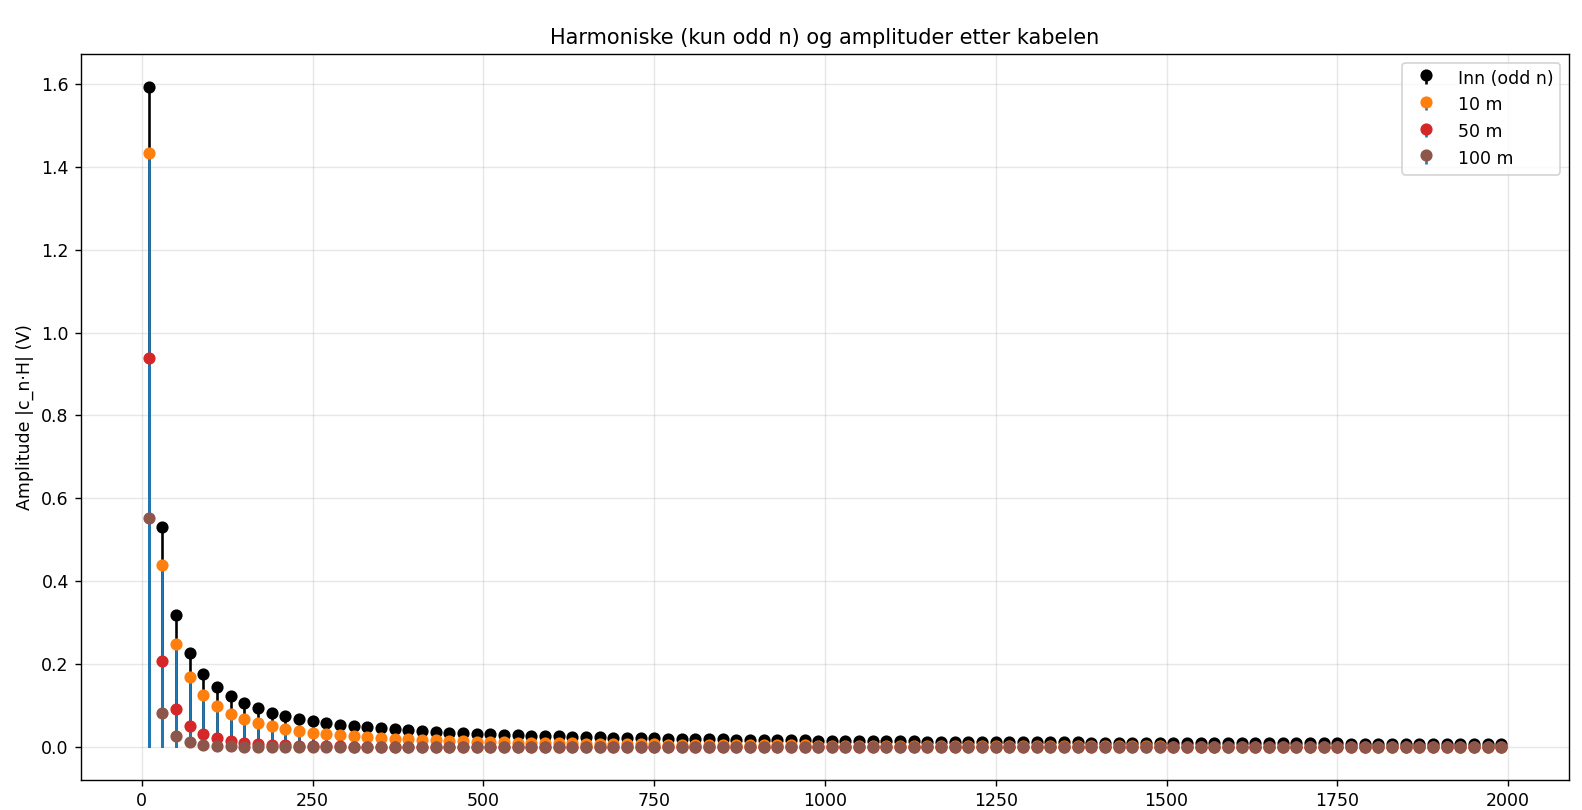
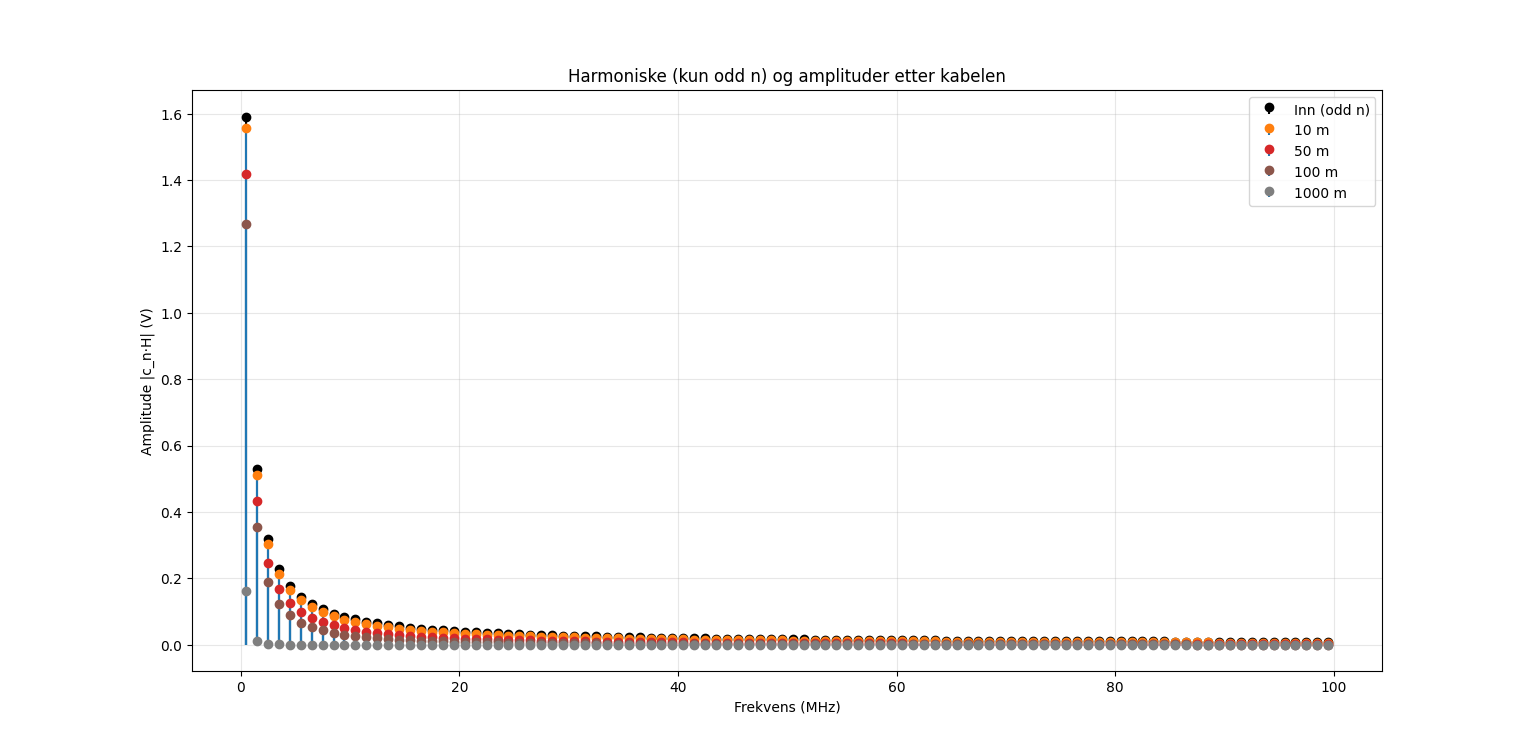
adda et par modeller

diff --git a/Lab1/sections/modellering.tex b/Lab1/sections/modellering.tex
@@ -10,7 +10,7 @@ Vi tar utgangspunkt i en firkantpuls med periode $T$:
 \]
 Vi bestemmer først Fourier-rekken til firkantpulsen for å finne frekvenskomponentene:
 \[
-    V_{in}(t) = \sum_{n=1,3,5,...}^{\infty} c_n e^{j n \omega_0 t}, \quad hvor \quad \omega_0 = \frac{2\pi}{T}
+    V_{in}(t) = c_0 + \sum_{\substack{n=-\infty\\ n\ \text{oddetall}}}^{\infty} c_n e^{j n \omega_0 t}, \quad hvor \quad \omega_0 = \frac{2\pi}{T}
 \]
 Merk at siden vi vet at duty cycle er 50\%, vil bare oddetalls harmoniske være tilstede i Fourier-rekken.
 Koefisientene $c_n$ kan beregnes som:
@@ -22,9 +22,9 @@ Koefisientene $c_n$ kan beregnes som:
 \]
 Vi for dermed at:
 \[
-    V_{inn}(t) = \frac{5}{2} + \sum_{n=1,3,5,...}^{\infty} \frac{5}{j n \pi} e^{j n \omega_0 t}
+    V_{in}(t) = \frac{5}{2} + \sum_{\substack{n=-\infty\\ n\ \text{oddetall}}}^{\infty} \frac{5}{j n \pi} e^{j n \omega_0 t}
 \]
-For å modellere dempingen i mediet, antar vi en en tilnærment lik realistiske verider for R, G, L og C.
+For å modellere dempingen i mediet, antar vi en en tilnærment lik realistiske tilnærminger for R, G, L og C.
 Vi antar at mediet er en Cat5e kabel med følgende parametere:
 Fra formel \eqref{eq:skin-effekt} for vi at R er gitt ved:
 \[
@@ -58,24 +58,51 @@ Fra formlen \eqref{eq:dielectric_loss} for dielektriske tap, får vi at:
 \[
     H(f, l) = e^{-\gamma(f) l}, \quad hvor \quad \gamma(f) = \sqrt{(R(f) + j 2\pi f L)(G(f) + j 2\pi f C)}
 \]
-Her er $l$ lengden på mediet (kabelen) og $\gamma(f)$ er den komplekse bølgeimpedansen som avhenger av frekvensen.
+Her er $l$ lengden på mediet (kabelen) og $\gamma(f)$ er propagasjonskonstanten som avhenger av frekvensen.
 Vi kan nå finne ut hvordan hver frekvenskomponent i firkantpulsen blir dempet ved å multiplisere hver komponent med $H(f, l)$:
 \[
-    V_{out}(t) = \sum_{n=1,3,5,...}^{\infty} c_n H(n f_0, l) e^{j n \omega_0 t}
+    V_{out}(t) = c_0H(0, l) + \sum_{\substack{n=-\infty\\ n\ \text{oddetall}}}^{\infty} c_n H(n f_0, l) e^{j n \omega_0 t}
+\]
+Som i hvor situasjon gir:
+\[
+    V_{out}(t) = \frac{5}{2}H(0, l) + \sum_{\substack{n=-\infty\\ n\ \text{oddetall}}}^{\infty} \frac{5}{j n \pi} H(n f_0, l) e^{j n \omega_0 t}    
 \]
 For å simulere dette numerisk, kan vi bruke Python til å beregne $H(f, l)$ for en rekke frekvenser og deretter rekonstruere tidsdomenesignalet ved hjelp av den inverse Fourier-transformasjonen.
 Vi kan da plotte både inngangssignalet og utgangssignalet for å visualisere effekten av dempingen i mediet.
-\subsection{Modell 1}
-Dempinig av signalet over en lengde på 10, 50 og 100 meter er vist i figur \ref{fig:modell1}. Vi ser at høyfrekvente komponenter blir betydelig dempet, noe som resulterer i en mer avrundet firkantpuls ved utgangen. Dette illustrerer hvordan mediet fungerer som et lavpassfilter, hvor de høyere frekvensene reduseres mer enn de lavere frekvensene.
+\clearpage
+\subsection{Modeller}
+For å forstå hvordan forskjellige aspekter av mediets egenskaper påvirker signalet, har vi laget flere modeller der vi varierer hvilke deler av den propagasjonskonstanten $\gamma(f)$ vi tar hensyn til. Modellene er basert på 10m, 50m, 100m og 1000m. Vi har følgende modeller:
+\begin{itemize}
+    \item \textbf{Kun demping:} I disse modellene tar vi kun hensyn til dempingen i mediet, og ignorerer faseendringen. Dette viser hvordan signalets amplitude påvirkes uten å endre dets form (modell 1 og 2).
+    \[
+        \gamma(f) = \alpha(f)
+    \]
+    \item \textbf{Kun faseendring:} I denne modellen tar vi kun hensyn til faseendringen i mediet, og ignorerer dempingen. Dette viser hvordan signalet ville oppføre seg i et ideelt tapsfritt medium (modell 3).
+    \[
+        \gamma(f) = j\beta(f)
+    \]
+    \item \textbf{Ideell, tapsfri og ikke-dispersiv modell:} Her antar vi at mediet er ideelt, uten demping og uten dispersjon. Dette betyr at alle frekvenskomponenter har samme fasehastighet (modell 4).
+    \[
+        \gamma(f) = j\beta(f), \quad hvor \quad \beta(f) = \omega\sqrt{LC}
+    \]
+    \item \textbf{Full modell:} Her tar vi hensyn til både demping (Re($\gamma$)) og faseendring (Im($\gamma$)) i mediet. Dette gir en tilnærmet representasjon av hvordan signalet påvirkes (modell 5).
+    \[
+        \gamma(f) = \alpha(f) + j\beta(f)
+    \]
+    \item \textbf{Waterfall plott:} For å visualisere hvordan forskjellige frekvenskomponenter påvirker tidsdomenesignalet, har vi laget to "waterfall" plot som viser hvordan signalet endres når vi inkluderer flere og flere frekvenskomponenter opp til en viss grensefrekvens (modell 6).
+\end{itemize}
+\clearpage
+\subsection{Modell 1 (kunn demping i frekvensdomenet)}
+Demping av signalet er vist i figur \ref{fig:modell1}. Vi ser at høyfrekvente komponenter blir betydelig dempet, noe som resulterer i en mer avrundet firkantpuls ved utgangen. Dette illustrerer hvordan mediet fungerer som et lavpassfilter, hvor de høyere frekvensene reduseres mer enn de lavere frekvensene.
 \begin{figure}[h]
     \centering
     \includegraphics[width=1\textwidth]{Media/modellering1.png}
-    \caption{Frekvensdomeneanalyse av firkantpuls etter å ha passert gjennom et dempende medium over forskjellige lengder (10m, 50m, 100m).}
+    \caption{Frekvensdomeneanalyse av firkantpuls etter å ha passert gjennom et dempende medium over forskjellige lengder.}
     \label{fig:modell1}
 \end{figure}
 \clearpage
-\subsection{Modell 2}
-I den andre modellen ser vi på hvordan tidsdomenesignalet endres etter å ha passert gjennom mediet. Vi rekonstruerer tidsdomenesignalet ved hjelp av den inverse Fourier-transformasjonen av de dempede frekvenskomponentene. Her har vi kunn tatt hensyn til amplitudendringen og ikke faseendringen (\textbf{det samme gjelder for modell 3}). alstå ser vi på:
+\subsection{Modell 2 (demping i frekvensdomenet i tidsdomenet)}
+I den andre modellen ser vi på hvordan tidsdomenesignalet endres etter å ha passert gjennom mediet. Vi rekonstruerer tidsdomenesignalet ved å summerer Fourier-rekkene for de dempede harmoniske. Her har vi kunn tatt hensyn til amplitudendringen og ikke faseendringen. alstå ser vi på:
 \[
     H(f, l) = e^{-\alpha(f) l}, \quad hvor \quad \alpha(f) = Re(\gamma(f))
 \]
@@ -83,11 +110,51 @@ Resultatet er vist i figur \ref{fig:modell2}. Vi ser at firkantpulsen blir mer a
 \begin{figure}[h]
     \centering
     \includegraphics[width=1\textwidth]{Media/modellering2.png}
-    \caption{Tidsdomenesignalet av firkantpuls etter å ha passert gjennom et dempende medium over forskjellige lengder (10m, 50m, 100m).}
+    \caption{Tidsdomenesignalet av firkantpuls etter å ha passert gjennom et dempende medium over forskjellige lengder.}
     \label{fig:modell2}
 \end{figure}
 \clearpage
-\subsection{Modell 3}
+\subsection{Modell 3 (kunn faseendring)}
+I den tredje modellen ser vi på hvordan tidsdomenesignalet endres når vi kun tar hensyn til faseendringen i mediet, og ignorerer dempingen. Altså ser vi på:
+\[
+    H(f, l) = e^{-j\beta(f) l}, \quad hvor \quad \beta(f) = Im(\gamma(f))
+\]
+Resultatet er vist i figur \ref{fig:modell3}. Vi ser at firkantpulsen blir mer vrengete etter å ha passert gjennom mediet, men beholder sin generelle form. Dette illustrerer hvordan faseendringen påvirker signalets tidsdomenesignal uten å endre dets amplitude. Alle frekvenskomponenter opplever forskjellige faseforsinkelser, noe som fører til en forvrengning av signalets form.
+\begin{figure}[h]
+    \centering
+    \includegraphics[width=1\textwidth]{Media/modellering3.png}
+    \caption{Tidsdomenesignalet av firkantpuls etter å ha passert gjennom et medium med kun faseendring.}
+    \label{fig:modell3}
+\end{figure}
+\clearpage
+\subsection{Modell 4 (Ideell, ikke-dispersiv modell)}
+I den fjerde modellen ser vi på hvordan tidsdomenesignalet endres når vi antar at mediet er ideelt, uten demping og uten dispersjon. Altså ser vi på:
+\[
+    H(f, l) = e^{-j\beta(f) l}, \quad hvor \quad \beta(f) = \omega\sqrt{LC}
+\]
+Resultatet er vist i figur \ref{fig:modell4}. Vi ser at firkant
+pulsen opprettholder sin form og blir forsinket i tid, akkurat som i modell 3. Dette bekrefter at i et ideelt ikke-dispersivt medium, har alle frekvenskomponenter samme fasehastighet, noe som betyr at signalets form bevares uten noen forvrengning.
+\begin{figure}[h]
+    \centering
+    \includegraphics[width=1\textwidth]{Media/modellering4.png}
+    \caption{Tidsdomenesignalet av firkantpuls etter å ha passert gjennom et ideelt ikke-dispersivt medium over forskjellige lengder.}
+    \label{fig:modell4}
+\end{figure}
+\clearpage
+\subsection{Modell 5 (full modell)}
+I den femte modellen ser vi på hvordan tidsdomenesignalet endres når vi tar hensyn til både demping og faseendring i mediet. Altså ser vi på:
+\[
+    H(f, l) = e^{-\gamma(f) l}, \quad hvor \quad \gamma(f) = \alpha(f) + j\beta(f)
+\]
+Resultatet er vist i figur \ref{fig:modell5}. Vi ser at firkantpulsen blir både dempet og forsinket i tid etter å ha passert gjennom mediet. Dette gir en mer realistisk representasjon av hvordan signalet påvirkes i et ekte medium, hvor både demping og faseendring spiller en rolle. Over lengre avstander blir signalet betydelig mer avrundet og dempet, noe som illustrerer viktigheten av å ta hensyn til begge aspekter for å forstå signalets oppførsel.
+\begin{figure}[h]
+    \centering
+    \includegraphics[width=1\textwidth]{Media/modellering5.png}
+    \caption{Tidsdomenesignalet av firkantpuls etter å ha passert gjennom et realistisk medium over forskjellige lengder.}
+    \label{fig:modell5}
+\end{figure}
+\clearpage
+\subsection{Modell 6 (waterfall plot)}
 For å få en bedre forståelse av hvordan forskjellige frekvenskomponenter påvirker tidsdomenesignalet, har vi laget to "waterfall" plot som viser hvordan signalet endres når vi inkluderer flere og flere frekvenskomponenter opp til en viss grensefrekvens (Visualisere bidraget fra hver komponent). Den enen kalles lavpassfilter (LP) og den andre høypassfilter (HP). Prinsippet er det samme for begge plottene, men de summerer forskjellige sett av frekvenskomponenter:
 \begin{itemize}
     \item \textbf{Lavpassfilter (LP):} Her summerer vi alle frekvenskomponenter fra fundamentalfrekvensen $f_0$ opp til en økende grensefrekvens $f_{cut}$. Dette viser hvordan tidsdomenesignalet utvikler seg når vi inkluderer flere lavfrekvente komponenter.
@@ -100,11 +167,13 @@ For å få en bedre forståelse av hvordan forskjellige frekvenskomponenter påv
     \]
     \item \textbf{Antall kutt:} For å få en jevnere overgang i waterfall plottene, har vi økt antall kutt (cuts) til 15. Dette gir en mer detaljert visualisering av hvordan signalet endres med forskjellige grensefrekvenser.
 \end{itemize}
-Dette er vist i figur \ref{fig:modell3}.
+Dette er vist i figur \ref{fig:modell6}.
 \begin{figure}[h]
     \centering
-    \includegraphics[width=1\textwidth]{Media/modellering3.png}
+    \includegraphics[width=1\textwidth]{Media/modellering6.png}
     \caption{Waterfall plot som viser hvordan tidsdomenesignalet endres når flere frekvenskomponenter inkluderes opp/ned til forskjellige grensefrekvenser (plottet er for 50m kabel).}
-    \label{fig:modell3}
+    \label{fig:modell6}
 \end{figure}\\
 Vi ser at når vi inkluderer flere frekvenskomponenter, blir tidsdomenesignalet mer detaljert og nærmere den opprinnelige firkantpulsen. Dette illustrerer viktigheten av høyfrekvente komponenter for å bevare signalets form. For lavpassfilteret ser vi at signalet gradvis nærmer seg firkantpulsen når flere lavfrekvente komponenter inkluderes. For høypassfilteret ser vi at signalet blir mer avrundet når flere høyfrekvente komponenter inkluderes, noe som bekrefter at høyfrekvente komponenter er avgjørende for å opprettholde skarpe overganger i tidsdomenesignalet.
+\clearpage
+

diff --git a/simTest.py b/simTest.py
@@ -24,6 +24,7 @@ Nf = 4000
 # Tidsprøver for rekonstruksjon
 Nt = 5000
 t_cycles = 1.0      # tegn en periode
+mode = "kunn_fase"  # "full", "kunn_fase", "kunn_forsinkelse", "kunn_tap"
 
 
 
@@ -54,14 +55,31 @@ def gamma_f(f):
     f = np.asarray(f, dtype=float)
     R = R_f(f)
     G = G_f(f)
-    return np.real(np.sqrt((R + j*2*pi*f*L) * (G + j*2*pi*f*C)))
+    gamma = np.sqrt((R + j*2*pi*f*L) * (G + j*2*pi*f*C))
+    return gamma
 
-def H_f(f, length):
-    """Overføringsfunksjon H(f, l) = exp(-gamma*l) med H(0)=1."""
+def H_f(f, length, mode="full"):
     f = np.asarray(f, dtype=float)
-    H = np.exp(-gamma_f(f) * length)
+    if mode == "full":
+        gamma = gamma_f(f)                      # α + jβ (med tap)
+        gamma_eff = gamma
+    elif mode == "kunn_fase":                  # bruk bare β fra faktisk gamma
+        beta = np.imag(gamma_f(f))              # β(f)
+        gamma_eff = 1j*beta
+    elif mode == "kunn_forsinkelse":              # ideell, tapsfri og ikke-dispersiv
+        omega = 2*np.pi*f
+        beta0 = omega*np.sqrt(L*C)              # β0 = ω√(LC)
+        gamma_eff = 1j*beta0
+    elif mode == "kunn_tap":                  # bruk bare α fra faktisk gamma
+        alpha = np.real(gamma_f(f))             # α(f)
+        gamma_eff = alpha
+    else:
+        raise ValueError("Ukjent mode")
+
+    H = np.exp(-gamma_eff*length)
     H[f == 0.0] = 1.0
     return H
+
 
 def fourierRekkeCoeffs(T, duty, N):
     """ 
@@ -104,7 +122,7 @@ amps_in = np.abs(c)
 Hn_by_len = {}
 for Lm in lengths_m:
     # behold full lengde (brukes senere i tidsdomenet), men evaluer på |f|
-    Hn_by_len[Lm] = H_f(np.abs(harm_freqs), Lm)
+    Hn_by_len[Lm] = H_f(harm_freqs, Lm, mode=mode)
 
 fig1, ax1 = plt.subplots(figsize=(9,5))
 ax1.stem(freqs_odd_MHz, amps_in[odd_pos_idx],
@@ -124,21 +142,84 @@ ax1.grid(True, alpha=0.3)
 
 
 #Tidsdomene: en periode pr. lengde
-fig2, ax2 = plt.subplots(figsize=(9,5))
+# en referanseberegning
+# --- valg av forsinkelsesmodell ---
+df_rel = 0.05                 # for group_at_f0: +/-5% rundt f0
+
+def tau_per_meter(mode="ideal"):
+    if mode == "ideal":
+        return np.sqrt(L*C)   # τ/L = √(LC)
+    elif mode == "group_at_f0":
+        f0 = 1.0 / T
+        df = df_rel * f0
+        f_minus, f_plus = f0 - df, f0 + df
+        beta_minus, beta_plus = np.imag(gamma_f([f_minus, f_plus]))
+        omega_minus, omega_plus = 2*np.pi*np.array([f_minus, f_plus])
+        d_beta_d_omega = (beta_plus - beta_minus) / (omega_plus - omega_minus)  # s/m
+        return d_beta_d_omega              # τ/L = dβ/dω
+    else:
+        raise ValueError("Ukjent delay_mode")
+
+# referanse
+cmap = plt.cm.get_cmap('tab10', len(lengths_m))   # evt. 'tab20'
+color_of = {Lm: cmap(i) for i, Lm in enumerate(lengths_m)}
+ref_style = dict(color='0.45', alpha=0.35, lw=1.0)  # grå referanse
+
+# --- Referanse ---
 t_in, x_in = rekonTidsSignal(T, n, c, Hn=None, Nt=Nt, t_cycles=t_cycles)
-ax2.plot(t_in*1e9, x_in, 'k', lw=1.5, label='Inn (referanse)')
 
-for Lm in lengths_m:
-    Hn = Hn_by_len[Lm]
-    t_out, x_out = rekonTidsSignal(T, n, c, Hn=Hn, Nt=Nt, t_cycles=t_cycles)
-    t_out_shifted = t_out  # juster for forsinkelse
-    ax2.plot(t_out_shifted*1e9, x_out, lw=1.6, label=f'{Lm} m')
+fig, axes = plt.subplots(
+    nrows=len(lengths_m), ncols=1, sharex=True, sharey=True,
+    figsize=(9, 2.2*len(lengths_m))
+)
+axes = np.atleast_1d(axes)
 
-ax2.set_xlabel('Tid (ns)')
-ax2.set_ylabel('Spenning (norm.)')
-ax2.set_title('en periode av pulstoget etter ulike kabellengder')
-ax2.grid(True, alpha=0.3)
-ax2.legend()
+if mode in ("kunn_forsinkelse", "kunn_fase"):
+    # forsinkelse pr. meter
+    tau_per_m = tau_per_meter()  # s/m
+
+    for ax, Lm in zip(axes, lengths_m):
+        Hn = Hn_by_len[Lm]
+        t_out, x_out = rekonTidsSignal(T, n, c, Hn=Hn, Nt=Nt, t_cycles=t_cycles)
+
+        # signaler
+        ax.plot(t_in*1e9, x_in, **ref_style, label='Inn (ref.)')
+        ax.plot(t_out*1e9, x_out, lw=1.6, color=color_of[Lm], label=f'{Lm} m')
+
+        # forsinkelsesmarkør (mod T så den havner i vinduet)
+        tau = tau_per_m * Lm                       # s
+        tmark_ns = (tau % (t_cycles*T)) * 1e9      # ns
+        ax.axvline(tmark_ns, ls='--', lw=1.0, color=color_of[Lm])
+
+        ymax = ax.get_ylim()[1]
+        ax.text(
+            tmark_ns, ymax*0.92, fr'$\tau \approx {tau*1e9:.1f}\,$ns',
+            rotation=0, ha='left', va='baseline', fontsize=10,
+            color=color_of[Lm]
+        )
+
+        ax.grid(True, alpha=0.3)
+        ax.set_ylabel('Spenning (norm.)')
+        ax.legend(loc='upper right')
+else:
+    for ax, Lm in zip(axes, lengths_m):
+        Hn = Hn_by_len[Lm]
+        t_out, x_out = rekonTidsSignal(T, n, c, Hn=Hn, Nt=Nt, t_cycles=t_cycles)
+
+        ax.plot(t_in*1e9, x_in, **ref_style, label='Inn (referanse)')
+        ax.plot(t_out*1e9, x_out, lw=1.6, color=color_of[Lm], label=f'{Lm} m')
+
+        ax.grid(True, alpha=0.3)
+        ax.set_ylabel('Spenning (norm.)')
+        ax.legend(loc='upper right')
+
+axes[-1].set_xlabel('Tid (ns)')
+fig.suptitle('En periode av pulstoget etter ulike kabellengder', y=0.98)
+fig.align_ylabels(axes)
+fig.tight_layout()
+
+
+
 
 from mpl_toolkits.mplot3d import Axes3D  # noqa: F401
 
@@ -155,7 +236,7 @@ t3 = np.linspace(0, T, 800, endpoint=False)
 w0 = 2*np.pi/T
 expo3 = np.exp(1j * np.outer(n*w0, t3))
 f0 = 1.0/T
-cuts = 15  # antall kutt i waterfall
+cuts = 13  # antall kutt i waterfall
 
 mask_odd = (n % 2 != 0) & (n != 0)
 
